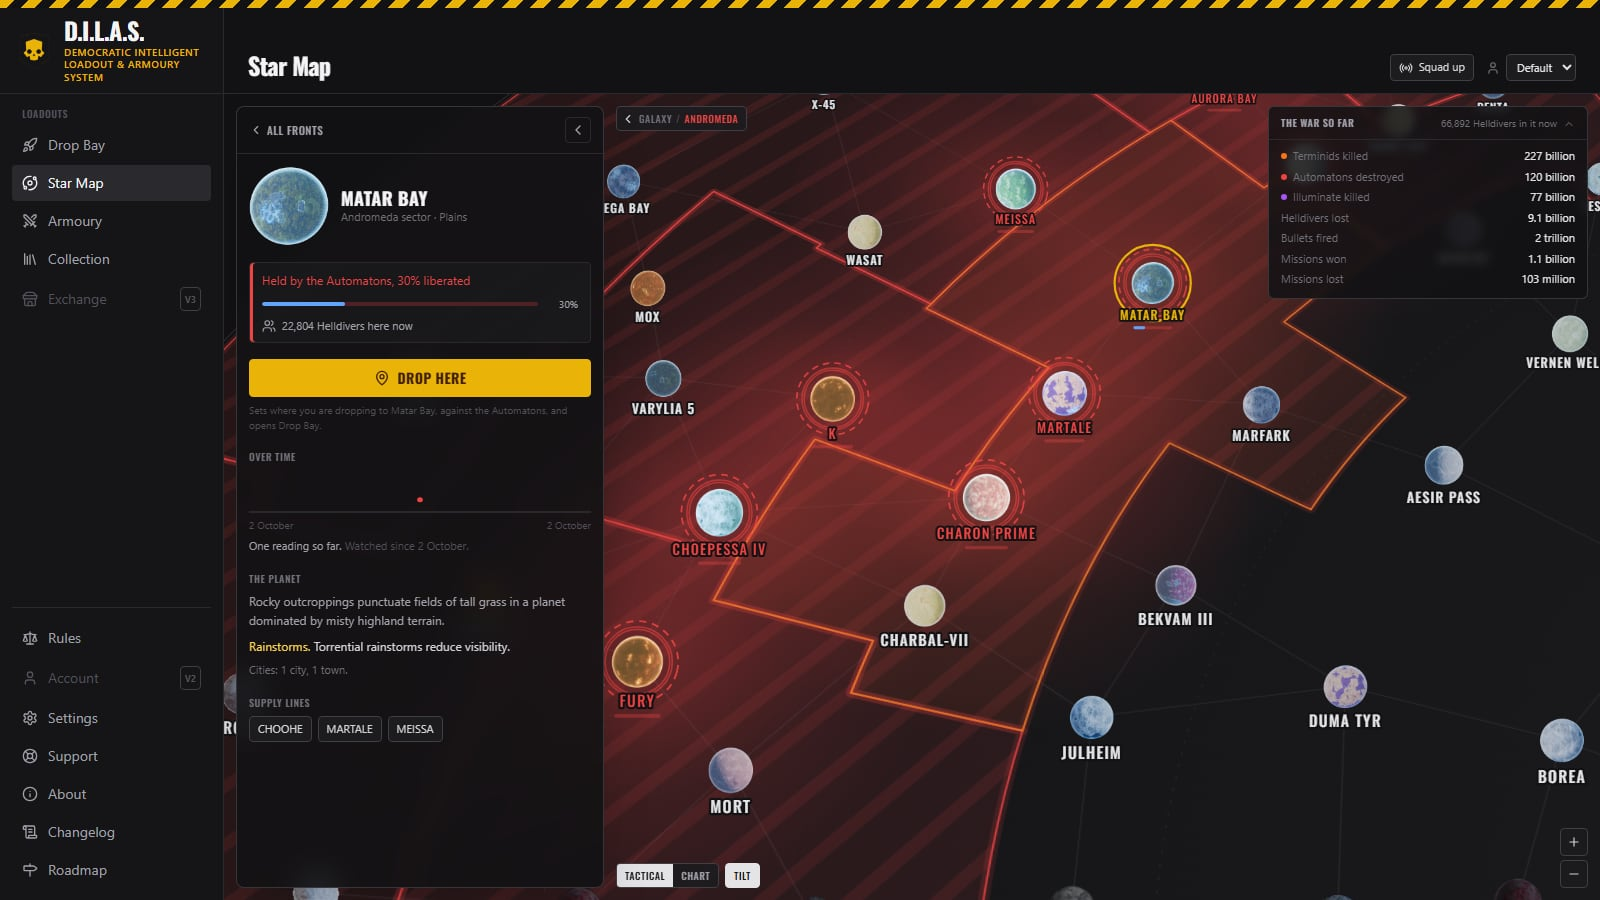
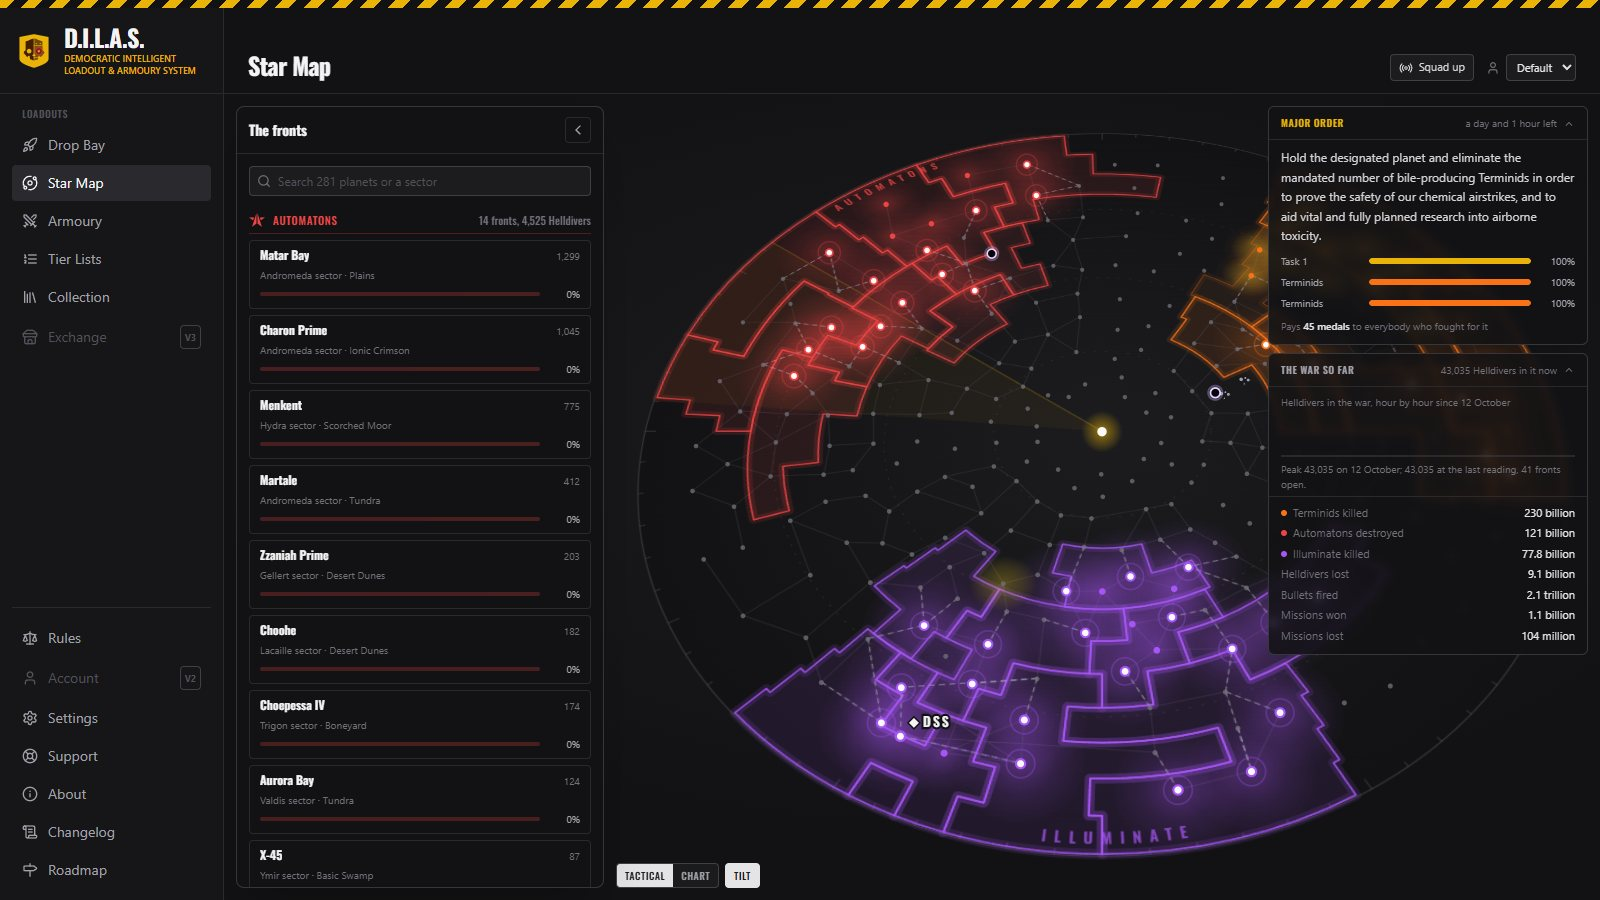
1.36.0: the tour marks each part, the README catches up, local notes stay local
The tour announces Collection when it arrives and names the part of the
tool on every card. The README describes 1.36.0, with a new war room and
zoomed out Star Map shot and a four theme collage. CLAUDE.md and
dilas-roadmap.md are now gitignored working notes, and comments no longer
name local folders.

diff --git a/src/lib/tour.js b/src/lib/tour.js
@@ -15,6 +15,9 @@
 /* come away knowing what every lit thing does.                        */
 /*                                                                    */
 /* Fields:                                                            */
+/*   section   the part of the tool the step is in, named in the card's */
+/*             header beside the count, so a change of page reads as a */
+/*             new chapter. Each page's first step announces it         */
 /*   route     where to go before the step is shown, as navigate()     */
 /*             takes it. None means stay where you are                 */
 /*   at        the data-tour value to light, or several, best first:   */
@@ -42,12 +45,14 @@ export const BORROWED_FRONT = { id: "bots", label: "Automatons" };
 
 export const TOUR = [
   {
+    section: "Orientation",
     title: "Welcome aboard, Helldiver",
     speech:
       "Attention! You have been selected for a mandatory orientation on the Democratic Intelligent Loadout & Armoury System. Attendance is voluntary. Non-attendance has been noted.",
     plain: "A short tour of the tool. Esc skips it, the arrow keys step through it, and Settings replays it.",
   },
   {
+    section: "Orientation",
     at: ["nav", "nav-main"],
     title: "The chain of command",
     speech:
@@ -59,7 +64,21 @@ export const TOUR = [
   /* untouched collection reads as owning everything, so every step     */
   /* after this one would be recommending gear the player may not have. */
   /* One step per kind of button, because they act on different things. */
+  /* The first step only announces the page: without it the move from   */
+  /* the menu into Collection went unsaid, and every card read as one    */
+  /* place. The curator's ask of 12 October 2026.                       */
   {
+    section: "Collection",
+    route: "collection/warbonds",
+    at: "nav-collection",
+    title: "Report to Collection",
+    speech:
+      "You are now standing in Collection, the Ministry's ledger of every Warbond and weapon to your name. Until you sign it, Super Earth assumes you own the entire arsenal. This is generous, and it is wrong.",
+    plain:
+      "Collection is what you own, in two tabs. Warbonds holds the warbonds you bought and the items inside them, Items holds every single item. Drop Bay suggests only builds you can field, and the build picker hides what you have locked.",
+  },
+  {
+    section: "Collection",
     route: "collection/warbonds",
     at: ["collection-guide", "collection-quickstart"],
     title: "Requisitions first",
@@ -69,6 +88,7 @@ export const TOUR = [
       "Start here. Until your collection is filled in, the tool assumes you own every warbond and every item, and recommends accordingly. The quick start at the top gets you most of the way in one click.",
   },
   {
+    section: "Collection",
     route: "collection/warbonds",
     at: "warbond-tile",
     title: "Warbonds you bought",
@@ -78,6 +98,7 @@ export const TOUR = [
       "Click a warbond's name to switch it between owned and not owned. Not owned locks everything in it at once, everywhere in the tool.",
   },
   {
+    section: "Collection",
     route: "collection/warbonds",
     at: "warbond-contents",
     title: "Medals, spent wisely",
@@ -87,6 +108,7 @@ export const TOUR = [
       "The tick unlocks every item in that warbond, the cross locks them all, and the number counts what you have. Both need the warbond owned first. For single items, use the Items tab.",
   },
   {
+    section: "Collection",
     route: "collection/warbonds",
     at: "warbond-tier",
     title: "Bulk requisition",
@@ -96,6 +118,7 @@ export const TOUR = [
       "Own all and Own none switch a whole tier of warbonds at once. They do not touch the items inside, which keep whatever you set with the tick and the cross.",
   },
   {
+    section: "Collection",
     route: "collection/items",
     at: "item-row",
     title: "Item by item",
@@ -105,6 +128,7 @@ export const TOUR = [
       "Every item has its own padlock: click the row to switch it. Filter by source or slot, then lock or unlock everything shown at once. Armour lives only here. A dim padlock means a warbond you do not own is holding it.",
   },
   {
+    section: "War room",
     route: "scenario",
     at: "war-planner",
     title: "Choose your battlefield",
@@ -114,6 +138,7 @@ export const TOUR = [
       "The war room sets where you are dropping: front, planet and mission. Every rating in the tool reads it, and with the live war it shows which fronts are open.",
   },
   {
+    section: "War room",
     route: "scenario",
     at: "war-difficulty",
     title: "Know your odds",
@@ -123,6 +148,7 @@ export const TOUR = [
       "Difficulty and squad size decide which enemies count and which gear rises. The same rifle rates differently solo on Super Helldive and with 4 players on Hard.",
   },
   {
+    section: "Drop Bay",
     route: "bay",
     at: "drop-slots",
     front: true,
@@ -134,6 +160,7 @@ export const TOUR = [
       "Drop Bay suggests three of your builds for this drop and says why. DROP confirms one, counts it for your squad and adds it to your drop history.",
   },
   {
+    section: "Drop Bay",
     route: "bay",
     at: "scenario-bar",
     front: true,
@@ -145,6 +172,7 @@ export const TOUR = [
       "The scenario bar sits on every page that reads it. Adjust opens the war room, and the bar says so whenever a rule is switched off.",
   },
   {
+    section: "Armoury",
     route: "armoury/builds",
     at: "nav-armoury",
     title: "The Armoury",
@@ -154,6 +182,7 @@ export const TOUR = [
       "Your builds. Builds lists them, Coverage shows what you have for each situation on each front, and History shows what you dropped with.",
   },
   {
+    section: "Tier Lists",
     route: "tiers/primary",
     at: "rating-columns",
     front: true,
@@ -164,6 +193,7 @@ export const TOUR = [
       `The community tier beside the ${BRAND.short} tier for your scenario. Open a row to see what affects it. Either column sorts the list.`,
   },
   {
+    section: "Rules",
     route: "rules",
     at: "nav-rules",
     title: "Full transparency",
@@ -173,6 +203,7 @@ export const TOUR = [
       "The Rules page lists each rule, what it changes where you are dropping, and a switch to turn it off in this browser.",
   },
   {
+    section: "Party",
     at: "party",
     title: "Squad up",
     speech:
@@ -181,6 +212,7 @@ export const TOUR = [
       "A six character code and no account. Each member's dropped build shows in their slot, and everyone follows the host's scenario.",
   },
   {
+    section: "Settings",
     route: "settings",
     at: "tour-replay",
     title: "Mandatory refresher",
@@ -190,6 +222,7 @@ export const TOUR = [
       "Settings also holds themes, Export and Import. Your collection lives in this browser, so export it before clearing anything.",
   },
   {
+    section: "Orientation",
     title: "Dismissed",
     speech:
       "Orientation complete. You are now fully informed, which is the second most dangerous thing a citizen can be. Get out there and spread Managed Democracy.",

diff --git a/src/Tour.jsx b/src/Tour.jsx
@@ -232,7 +232,8 @@ export default function Tour({ navigate, onClose, setMenu, front, setFront, canB
           </span>
           <div className="min-w-0">
             <p className="text-[10px] uppercase tracking-[0.14em] text-base-500" style={{ fontFamily: "'JetBrains Mono', monospace" }}>
-              Democracy Officer · {index + 1} of {TOUR.length}
+              {/* On a phone the speaker gives way, so the section and count keep one line. */}
+              <span className="hidden sm:inline">Democracy Officer · </span>{step.section} · {index + 1} of {TOUR.length}
             </p>
             <h3 className="text-lg font-bold uppercase leading-tight tracking-wide text-brand" style={OSWALD}>{step.title}</h3>
           </div>

diff --git a/src/lib/account.js b/src/lib/account.js
@@ -5,7 +5,7 @@
 /* under /api/, which is why public/_headers still says               */
 /* connect-src 'self' with nothing added to it.                       */
 /*                                                                    */
-/* Ported from Enodia's src/state/account.ts in C:\Dev\Enodia, minus */
+/* Ported from Enodia's src/state/account.ts, minus                   */
 /* the sync and password reset halves, which are still to be ported.  */
 /*                                                                    */
 /* The gate is loose on purpose. **Viewing is free, creating is free, */

diff --git a/worker/index.ts b/worker/index.ts
@@ -11,7 +11,7 @@
  * answers on the same hostname, so the whole API works under a policy that
  * never had to be opened up for it.
  *
- * Shaped after Enodia's `worker/index.ts` in `C:\Dev\Enodia`, which carries
+ * Shaped after Enodia's `worker/index.ts`, which carries
  * a dozen more routes. Each arrives here with the stage that needs it, rather
  * than as a route nothing calls.
  *

diff --git a/worker/auth.ts b/worker/auth.ts
@@ -2,7 +2,7 @@
  * Accounts. Email and password, and nothing else yet.
  *
  * Ported from Enodia's
- * `worker/auth.ts` in `C:\Dev\Enodia`, nearly verbatim, because every option
+ * `worker/auth.ts`, nearly verbatim, because every option
  * below is a lesson that project paid for. Read its docblocks before changing
  * one; they are longer than these.
  *

diff --git a/README.md b/README.md
@@ -8,7 +8,7 @@
 
 <p align="center">
   <a href="https://dilas.me"><img alt="Open it at dilas.me" src="https://img.shields.io/badge/open-dilas.me-ffe900?style=flat-square&labelColor=1a1a1a"></a>
-  <img alt="Version 1.26.0" src="https://img.shields.io/badge/version-1.26.0-ffe900?style=flat-square&labelColor=1a1a1a">
+  <img alt="Version 1.36.0" src="https://img.shields.io/badge/version-1.36.0-ffe900?style=flat-square&labelColor=1a1a1a">
   <img alt="Game patch 7.1.1" src="https://img.shields.io/badge/game%20patch-7.1.1-ffe900?style=flat-square&labelColor=1a1a1a">
   <img alt="In your browser, no install, no account" src="https://img.shields.io/badge/runs%20in-your%20browser-ffe900?style=flat-square&labelColor=1a1a1a">
 </p>
@@ -37,6 +37,10 @@ A suppressed rifle climbs on a hard bot drop because a sentry dies without wakin
 does better on a frozen planet; a reinforcement booster cannot even be brought on a Commando mission, where nobody
 respawns until you find the pods.
 
+Tell it **your skill level** once (the hardest difficulty four players at your level clear easily) and the
+difficulty, the squad size and the front become one number, peril, which decides when stealth, anti-tank and crowd
+clear start to matter. The same rifle reads differently solo on Super Helldive and with four of you on Hard.
+
 A community tier is an average over every planet, every difficulty and every squad size. D.I.L.A.S. is for the one
 you are actually playing.
 
@@ -57,27 +61,30 @@ on a demolition mission.
 
 Where you set up the drop, laid out like the game's Galactic War screen. **Click the planet where you clicked it in
 the game a minute ago, and its front, biome and hazards fill themselves in.** The map is coloured with the live war,
-fronts ringed and named, the Major Order over the top. Not sure where to go? Say what you are after (against whom,
+fronts ringed and named, the Major Order over the top. Choose a planet and its card opens: a picture of the ground,
+the temperature, the terrain, its cities and what the weather does. Not sure where to go? Say what you are after (against whom,
 what kind of mission, no caves, fewer megacities) and the planner marks the three busiest fronts that fit.
 
 Difficulty steps the way the game steps it, with what each level brings beside it: the missions in an operation, the
 medals, the outposts, the samples, the operation modifiers.
 
-![The war room: the galaxy map across the screen, the planner on the left, difficulty along the bottom](docs/images/war-room.jpg)
+![The war room: the chosen planet's card on the left, the galaxy map across the screen, difficulty along the bottom](docs/images/war-room.jpg)
 
 ### The Star Map
 
-The same map for reading the war rather than setting up a drop. Every front grouped by who you would fight there,
+The same map for reading the war rather than setting up a drop. It shows what the game marks: the Gloom, black holes
+where they are now, fractured and destroyed planets, attack lines and the DSS. Every front grouped by who you would fight there,
 busiest first. Click a planet for who holds it and how far along, how many Helldivers are there, what its hazards
 do, its cities and supply lines, and how it has moved over time. **Drop here** sets it as your drop in one click.
 
 Nobody publishes the war's history, so D.I.L.A.S. keeps its own: one reading an hour, thirty days back.
 
-![The Star Map: a planet's intel beside the map, with the war's running totals](docs/images/star-map.jpg)
+![The Star Map zoomed out: the fronts by who you fight, the Major Order and the war's running totals](docs/images/star-map.jpg)
 
 ### The Armoury
 
-Your builds, saved and named with their stratagems, which the game does not keep. The list you pick from **is the
+Your builds, saved and named with their stratagems, which the game does not keep. Every armour set in the game is
+there to pick, with its weight, armour, speed and stamina, and the weight counts toward the build's reading. The list you pick from **is the
 tier list, already ranked for where you are going.** Coverage answers the question you actually have: do I have
 something for solo on Super Helldive, for a frozen planet, for a Commando mission, on every front? History shows
 where your evenings went, and which builds are gathering dust.
@@ -95,13 +102,16 @@ worked out without it, in your browser only.
 ### And also
 
 - **Collection**: what you own, as the game sells it. Warbonds and the items inside them are separate purchases, so
-  they are two separate switches. A second profile for a second player.
+  they are two separate switches. A quick start fills it in one click, and a second profile covers a second player.
+- **A guided tour** on your first visit, from the Democracy Officer, through every part of the tool. Settings replays it.
 - **Share a build in a link.** The build is written into the link itself, so it works with no account and no server.
 - **Thirteen themes**, ten of them skins with their own atmosphere: tracer fire over Malevelon Creek, rain for the
   ODSTs, the Ministry of Truth on paper.
 - **For a change**: once you have a few drops logged, Drop Bay suggests a build you have not taken lately, and good
   gear you have never brought against this front.
 - **Backup and restore** of everything you own and made, as one file.
+
+![Four of the thirteen themes on the tier list: Automaton, Castellan's Creed, Neon and Malevelon Creek](docs/images/themes.jpg)
 
 ## Use it
 
@@ -158,7 +168,7 @@ Art is optional. With `src/assets` empty, every item reads by its name instead o
 | `src/data/` | Items, ratings, rules, missions, planets, enemies and difficulty, as JSON |
 | `worker/` | The server: a Cloudflare Worker with D1, and a Durable Object per party |
 | `scripts/` | The data fetches and the checks |
-| [`CLAUDE.md`](CLAUDE.md), [`dilas-roadmap.md`](dilas-roadmap.md) | How the tool works and why, and what comes next |
+| `tools/game-dump/` | The program that reads weapon numbers from filediver's decoded game tables |
 
 ## Where the numbers come from
 
@@ -172,6 +182,8 @@ Art is optional. With `src/assets` empty, every item reads by its name instead o
 - **Fonts**: Oswald and JetBrains Mono, served from the tool itself.
 
 Our rating, the role tags and every rule's judgement are ours, and the tool says so wherever they appear.
+
+What comes next is on the [Roadmap](https://dilas.me/#/roadmap), and every release is on the [Changelog](https://dilas.me/#/changelog).
 
 ## Feedback and support
 
